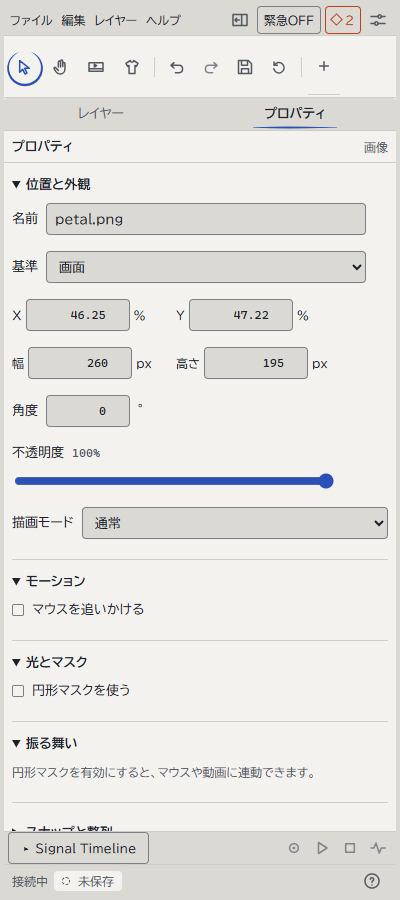
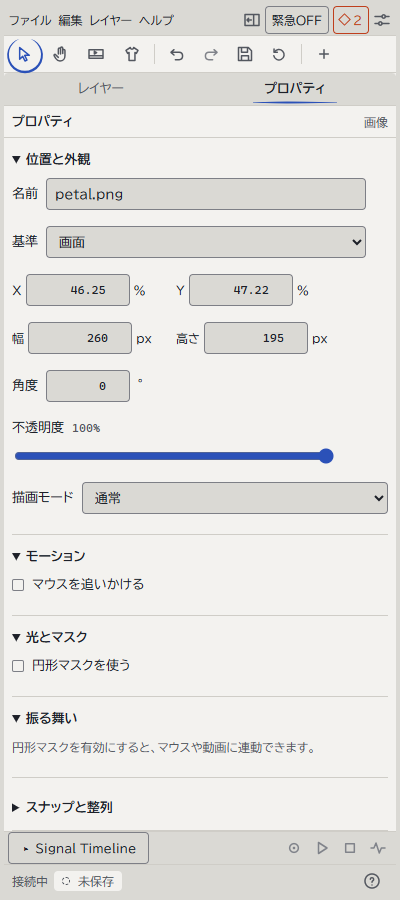
Leave room in the side panel header for wider platform fonts

Changed region(s): [[0.0, 0.0, 0.99, 0.9333], [0.39, 0.8089, 0.78, 0.8711]]

diff --git a/src/studio/workbench.css b/src/studio/workbench.css
@@ -648,8 +648,14 @@ label[data-scrub] input {
 :host([data-sidepanel]) .menu-end > .usage {
   display: none;
 }
+/* At 360px the header holds four menus, the window button, 緊急OFF, 操作チェック and 表示設定 on
+   one line, with room for wider platform fonts. */
 :host([data-sidepanel]) .studio-menu-item > summary {
-  padding-inline: 4px;
+  padding-inline: 3px;
+}
+:host([data-sidepanel]) .menu-end .icon-button {
+  width: 24px;
+  min-width: 24px;
 }
 :host([data-sidepanel]) .editor-body {
   display: block;

diff --git a/docs/ui0d-3.md b/docs/ui0d-3.md
@@ -130,6 +130,7 @@
 
 - 「＋」のメニューが開いても見えない。幅 640px 以下で道具の列を横にスクロールさせる前からの規則が、下へ出るメニューを切っていた。1 列の並びでは道具が 1 段に収まるので、そこでは切らない。見張り役のテストに「＋を開くと 3 つが見え、真ん中を押すとそのボタン」を足した
 - 「＋」の下に短い線。パネル共通の `details` の下線と余白が付いていた。見張り役のテストに「＋は 32px の 1 つの部品」を足した
+- CI（Linux）で、制限があるときの見出しが 360px を 6.7px はみ出した（Windows では 6px 余っていた。文字の幅の違い）。サイドパネルの見出しのメニューの余白を 4→3px、アイコンボタンを 28→24px にして、16px ほど余らせた（`bc10a32` の CI が落ち、次のコミットで直した）
 
 ## 計測
 
